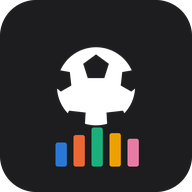
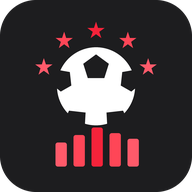
feat(crossleague): new mark — Hub badge with five stars
The Krogvad Analytics Hub badge as-is — near-black disc, white football,
five red analytics bars — with an arc of five stars struck over the ball,
one per league. The stars take the bars' own reds, palest at the ends and
strongest in the middle, so the two rows read as one family rather than
two ideas. The arc is centred on the ball, not the canvas, so it stays
concentric if the ball ever moves.

scripts/render_logo.py emits the three SVGs and all four rasters from a
single geometry block. The other sites keep the mark in static/*.svg and
redraw it again in render_icons.py, which has to be changed twice and can
drift; here there is one source and the mirroring hazard is gone.

Header wordmark ink is dark now — it sits on Evidence's white header
rather than the dark band the console shell used to supply.

diff --git a/dashboards/crossleague/scripts/render_logo.py b/dashboards/crossleague/scripts/render_logo.py
@@ -1,0 +1,176 @@
+"""Render every crossleague logo asset from one geometry definition.
+
+The other sites keep the mark in static/*.svg and redraw it a second time in
+render_icons.py, which means a change has to be made twice and the two can
+drift. Here the geometry lives once, in this file, and both the SVG and the
+PNGs are emitted from it. Edit the constants below, run the script, commit
+what it writes.
+
+    python3 scripts/render_logo.py
+
+The mark is the Krogvad Analytics Hub badge — near-black disc, white football,
+five red analytics bars — with an arc of five red stars over the ball, one per
+league. The stars take the bars' own reds, palest at the ends and strongest in
+the middle, so the two rows read as the same family rather than two ideas.
+"""
+import math
+import os
+
+from PIL import Image, ImageDraw
+
+OUT = os.path.join(os.path.dirname(os.path.dirname(os.path.abspath(__file__))), "static")
+
+# ── palette ─────────────────────────────────────────────────────────────────
+INK = (0x1D, 0x1D, 0x1F)          # near-black badge, straight from the Hub
+WHITE = (0xFF, 0xFF, 0xFF)
+REDS = [(0xFF, 0x5A, 0x6A), (0xFF, 0x46, 0x57), (0xF5, 0x23, 0x3A),
+        (0xFF, 0x46, 0x57), (0xFF, 0x5A, 0x6A)]
+
+# ── geometry, in the 512x512 viewBox every asset shares ─────────────────────
+# Ball, patches and bars are lifted verbatim from the Hub's icon.svg.
+BALL = (256.0, 230.0, 110.0)
+PATCHES = [[(256, 145), (290, 170), (278, 208), (234, 208), (222, 170)],
+           [(366, 185), (380, 220), (350, 244), (322, 228), (326, 192)],
+           [(328, 295), (344, 330), (316, 352), (286, 336), (284, 300)],
+           [(184, 295), (168, 330), (196, 352), (226, 336), (228, 300)],
+           [(146, 185), (186, 192), (190, 228), (162, 244), (132, 220)]]
+BARS = [(148, 380, 30, 64), (196, 360, 30, 84), (244, 340, 30, 104),
+        (292, 355, 30, 89), (340, 370, 30, 74)]
+
+# Five stars on an arc over the ball — struck from the ball's own centre, so
+# the arc stays concentric with it however the ball moves.
+STAR_ARC_R = 148.0
+STAR_A0, STAR_A1 = -160.0, -20.0
+STAR_R = 24.0
+
+
+def star_centres():
+    n = len(REDS)
+    return [(BALL[0] + STAR_ARC_R * math.cos(math.radians(a)),
+             BALL[1] + STAR_ARC_R * math.sin(math.radians(a)))
+            for a in (STAR_A0 + (STAR_A1 - STAR_A0) * i / (n - 1) for i in range(n))]
+
+
+def star_points(cx, cy, r):
+    """Five-pointed star, one point up."""
+    return [(cx + (r if k % 2 == 0 else r * 0.382) * math.cos(math.radians(-90 + k * 36)),
+             cy + (r if k % 2 == 0 else r * 0.382) * math.sin(math.radians(-90 + k * 36)))
+            for k in range(10)]
+
+
+def hexof(c):
+    return "#%02X%02X%02X" % tuple(c[:3])
+
+
+# ── SVG ─────────────────────────────────────────────────────────────────────
+def mark_body(indent="  "):
+    """Everything inside the badge: stars, ball, bars."""
+    bx, by, br = BALL
+    L = []
+    for (cx, cy), col in zip(star_centres(), REDS):
+        pts = " ".join(f"{x:.1f},{y:.1f}" for x, y in star_points(cx, cy, STAR_R))
+        L.append(f'{indent}<polygon points="{pts}" fill="{hexof(col)}"/>')
+    L.append(f'{indent}<circle cx="{bx:.0f}" cy="{by:.0f}" r="{br:.0f}" fill="{hexof(WHITE)}"/>')
+    L.append(f'{indent}<g clip-path="url(#ball)">')
+    for p in PATCHES:
+        pts = " ".join(f"{x},{y}" for x, y in p)
+        L.append(f'{indent}  <polygon points="{pts}" fill="{hexof(INK)}"/>')
+    L.append(f'{indent}</g>')
+    L.append(f'{indent}<circle cx="{bx:.0f}" cy="{by:.0f}" r="{br:.0f}" fill="none" '
+             f'stroke="{hexof(INK)}" stroke-width="6"/>')
+    for (x, y, w, h), col in zip(BARS, REDS):
+        L.append(f'{indent}<rect x="{x}" y="{y}" width="{w}" height="{h}" rx="6" '
+                 f'fill="{hexof(col)}"/>')
+    return L
+
+
+DEFS = ['  <defs>',
+        f'    <clipPath id="ball"><circle cx="{BALL[0]:.0f}" cy="{BALL[1]:.0f}" r="{BALL[2]:.0f}"/></clipPath>',
+        '  </defs>']
+
+
+def build_svg(shell, indent="  "):
+    return "\n".join(['<svg xmlns="http://www.w3.org/2000/svg" viewBox="0 0 512 512">']
+                     + DEFS + shell + mark_body(indent) + ['</svg>', ''])
+
+
+CIRCLE_SHELL = [f'  <circle cx="256" cy="256" r="256" fill="{hexof(INK)}"/>']
+TILE_SHELL = [f'  <rect width="512" height="512" rx="96" fill="{hexof(INK)}"/>']
+
+
+def write_svgs():
+    open(os.path.join(OUT, "logo-circle.svg"), "w").write(build_svg(CIRCLE_SHELL))
+    open(os.path.join(OUT, "icon.svg"), "w").write(build_svg(TILE_SHELL))
+
+    # Header lockup: the circular mark at 40px plus the wordmark. Ink is dark;
+    # this sits on Evidence's white header.
+    font = "-apple-system, BlinkMacSystemFont, 'Segoe UI', Helvetica, Arial, sans-serif"
+    inner = "\n".join(CIRCLE_SHELL + mark_body("    "))
+    head = ('<svg xmlns="http://www.w3.org/2000/svg" viewBox="0 0 230 40">\n'
+            + "\n".join(DEFS) + "\n"
+            '  <svg x="0" y="0" width="40" height="40" viewBox="0 0 512 512">\n'
+            + inner + "\n  </svg>\n"
+            f'  <text x="50" y="18" font-family="{font}" font-weight="600" '
+            f'font-size="14" fill="{hexof(INK)}" letter-spacing="-0.4">Krogvad</text>\n'
+            f'  <text x="51" y="30" font-family="{font}" font-weight="500" '
+            'font-size="7.5" fill="#6e6e73" letter-spacing="1.8">CROSS-LEAGUE ANALYTICS</text>\n'
+            '</svg>\n')
+    open(os.path.join(OUT, "header-logo.svg"), "w").write(head)
+
+
+# ── raster ──────────────────────────────────────────────────────────────────
+def draw_mark(n, tile=False):
+    """The same drawing as the SVG, at n x n. Supersample via a large n."""
+    s = n / 512.0
+    img = Image.new("RGBA", (n, n), (0, 0, 0, 0))
+    d = ImageDraw.Draw(img)
+
+    def sc(v):
+        return v * s
+
+    if tile:
+        d.rounded_rectangle([0, 0, n - 1, n - 1], radius=sc(96), fill=INK + (255,))
+    else:
+        d.ellipse([0, 0, n - 1, n - 1], fill=INK + (255,))
+
+    for (cx, cy), col in zip(star_centres(), REDS):
+        d.polygon([(sc(x), sc(y)) for x, y in star_points(cx, cy, STAR_R)], fill=col + (255,))
+
+    bx, by, br = BALL
+    box = [sc(bx - br), sc(by - br), sc(bx + br), sc(by + br)]
+    d.ellipse(box, fill=WHITE + (255,))
+
+    # Patches are clipped to the ball, exactly as clipPath#ball does in the SVG.
+    ball_m = Image.new("L", (n, n), 0)
+    ImageDraw.Draw(ball_m).ellipse(box, fill=255)
+    patch = Image.new("RGBA", (n, n), (0, 0, 0, 0))
+    pd = ImageDraw.Draw(patch)
+    for p in PATCHES:
+        pd.polygon([(sc(x), sc(y)) for x, y in p], fill=INK + (255,))
+    img.paste(patch, (0, 0), Image.composite(patch.split()[3], Image.new("L", (n, n), 0), ball_m))
+
+    d = ImageDraw.Draw(img)
+    d.ellipse(box, outline=INK + (255,), width=max(1, int(round(6 * s))))
+    for (x, y, w, h), col in zip(BARS, REDS):
+        d.rounded_rectangle([sc(x), sc(y), sc(x + w), sc(y + h)], radius=sc(6), fill=col + (255,))
+    return img
+
+
+def write_pngs():
+    S = 4
+    circ = draw_mark(512 * S, tile=False)
+    tile = draw_mark(512 * S, tile=True)
+    tile.resize((512, 512), Image.LANCZOS).save(os.path.join(OUT, "icon-512.png"))
+    tile.resize((192, 192), Image.LANCZOS).save(os.path.join(OUT, "icon-192.png"))
+    tile.resize((180, 180), Image.LANCZOS).save(os.path.join(OUT, "apple-touch-icon.png"))
+    circ.resize((64, 64), Image.LANCZOS).save(
+        os.path.join(OUT, "favicon.ico"), sizes=[(16, 16), (32, 32), (48, 48), (64, 64)])
+
+
+if __name__ == "__main__":
+    write_svgs()
+    write_pngs()
+    for f in ("logo-circle.svg", "icon.svg", "header-logo.svg", "icon-512.png",
+              "icon-192.png", "apple-touch-icon.png", "favicon.ico"):
+        p = os.path.join(OUT, f)
+        print(f"  {f:24} {os.path.getsize(p):>8,} bytes")
